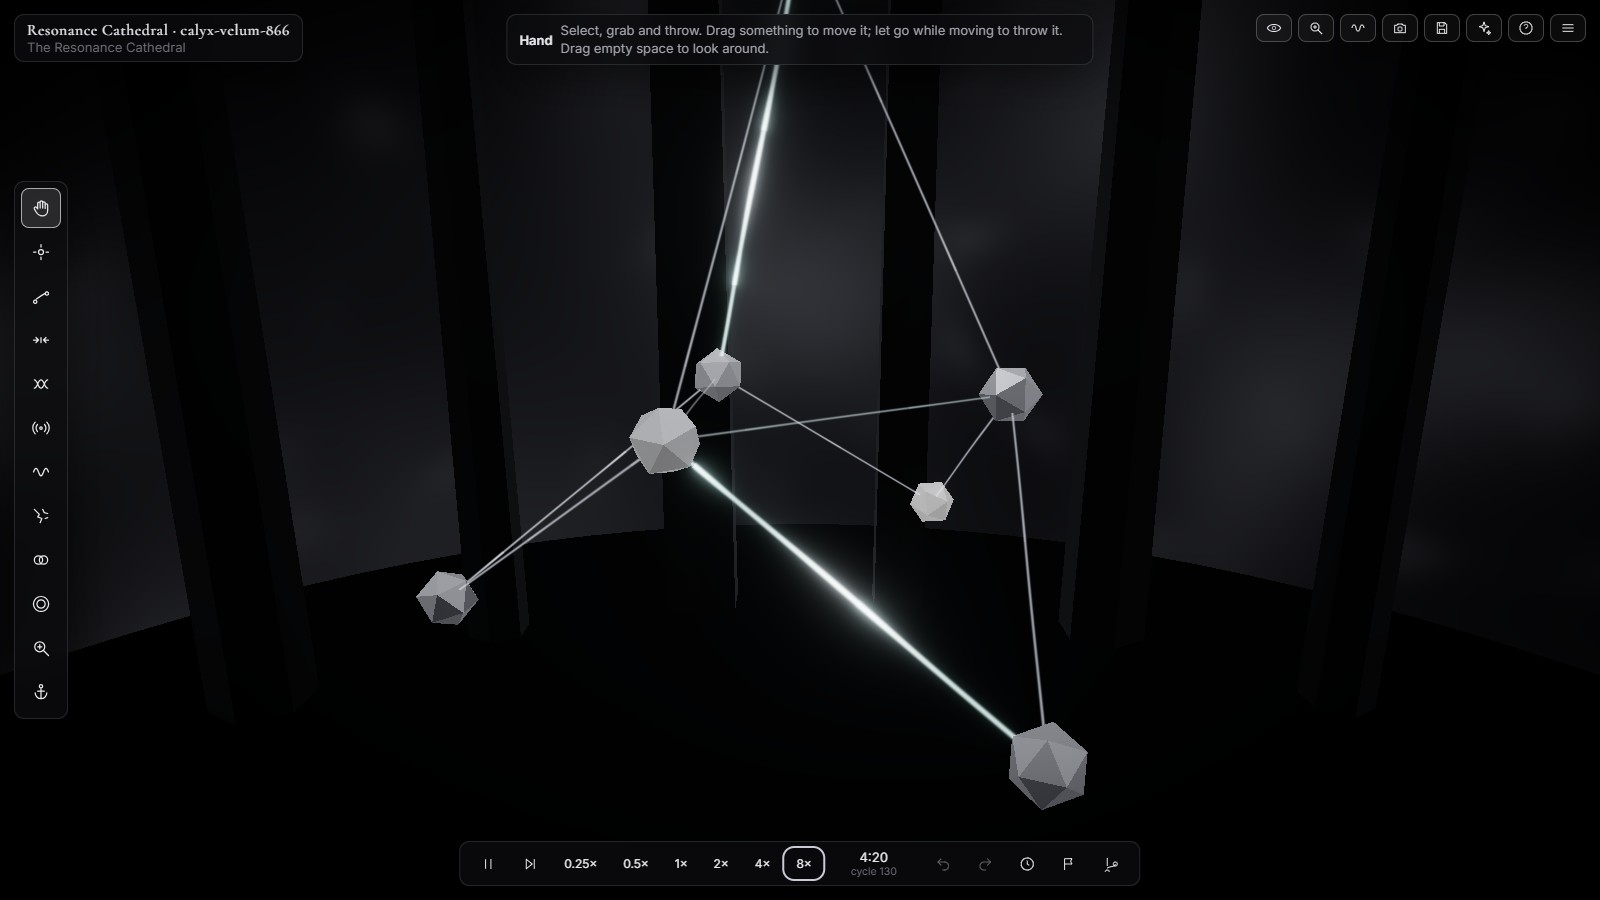
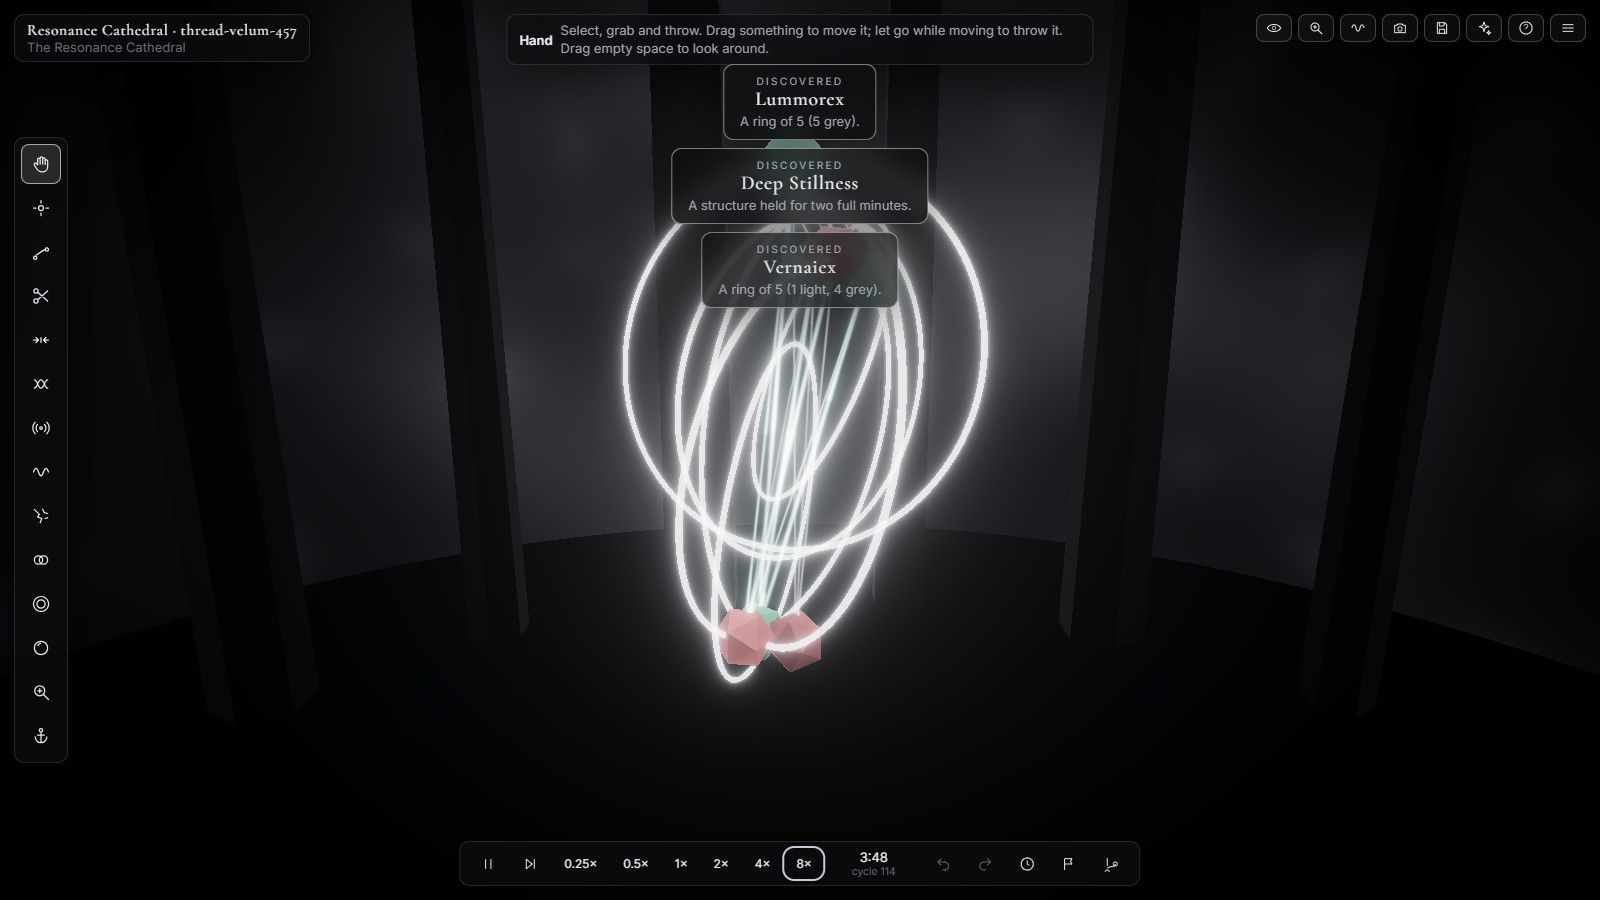
Showcase for Polaritium 1.4.0: note colours, the Music panel, your own sounds, Sound Puzzles

diff --git a/README.md b/README.md
@@ -8,6 +8,8 @@ Polaritium is a 3D game for Windows. Its universe is made of one strange, made-u
 
 You reach in and touch them. Connect a light to a dark and energy flows along the strand. Tune two things to nearby rhythms and they fall into step. Push a strand too hard and it snaps. Nothing is scripted: rings, membranes, crystals and small living forms appear only when the conditions allow them, and then they keep going on their own.
 
+And it is an instrument. Every ball sings a note and wears that note's colour, so the universe plays its own slow music as it moves, and you shape that music by shaping the universe.
+
 The whole game asks one question: *what happens if I try this?*
 
 ## Start here: the tutorial
@@ -30,7 +32,19 @@ A new player is offered a five-minute tutorial before anything else. It teaches 
 
 ![Strand Sight: the same loop with everything quieted except the strands, the strongest one glowing](screenshots/03-strand-sight.jpg)
 
-## The twelve tools
+## The universe plays music
+
+Every ball sings. Its rhythm picks a note from one five-note scale, on one steady beat, over a slow chord, so nothing you do can sound wrong. Colour is the note: light balls glow in a pale tint of it, dark balls hold a deep shade of it, grey sits between. Notes that sound best together wear nearly opposite colours, and with the harmony pull on they drift toward each other, while clashing notes drift apart.
+
+The Music panel shows the notes playing as a ring of colours, and holds the controls: tempo, four moods (Calm, Bright, Dreamy, Dark), scenes you can flip between like parts of a song, a starter kit of four balls that already sound good together, and Bubbles: see-through spheres you draw over a group of balls to quiet them all, or to hear only them. Any ball can be muted, soloed or removed from its own card, and its + and - buttons move it one note at a time.
+
+![The Music panel beside a starter kit: coloured balls joined by strands, the tempo dial, the four moods, the harmony pull and a saved scene](screenshots/13-living-score.png)
+
+**Your own sounds.** Drop in your own loops and sounds. The game works out each one's tempo, key or note; loops are stretched to the beat and moved into key, a line that plays one note at a time is tuned note by note, and single sounds are retuned to each ball's note. You choose which kind of ball plays which sound. Everything stays on your computer.
+
+![My sounds: a loop recognised as 100 beats a minute, 8 beats long, in D minor, and a pluck recognised as the note E, with a choice of sound for dark, light and grey balls](screenshots/14-my-sounds.png)
+
+## The fourteen tools
 
 Every tool sits on the rail at the left and has its own key. Each one also works without dragging, from the keyboard.
 
@@ -39,13 +53,15 @@ Every tool sits on the rail at the left and has its own key. Each one also works
 | 1 | Hand | Select, grab and throw. |
 | 2 | Seed | Place new light, dark, grey, a crystal seed or a living form. |
 | 3 | Strand | Connect two things so energy can flow between them. |
+| X | Scissors | Cut a strand. |
 | 4 | Pull | Draw things toward a point (or push them away), or shorten and lengthen a strand. |
 | 5 | Twist | Twist a strand. A twisted strand carrying flow turns its ends around each other. |
 | 6 | Pulse | Send a wave through the medium. Hold longer for a stronger one. |
-| 7 | Tune | Change something's rhythm, which you can hear, or how tightly a strand couples. |
-| 8 | Fracture | Cut a strand, or shake something until it may break. |
+| 7 | Tune | Change something's rhythm, and so the note it sings, or how tightly a strand couples. |
+| 8 | Fracture | Shake something until it may break. |
 | 9 | Fuse | Merge two things into one. |
 | 0 | Veil | Place a shield that keeps its inside apart from the outside. |
+| B | Bubble | Draw a see-through bubble that quiets what is inside it, or plays only that. It changes only the sound. |
 | L | Lens | Show the invisible: pooled light, passing vibration, the pull on each thing. |
 | K | Anchor | Hold something in place, or hold its rhythm or its energy. |
 
@@ -66,11 +82,13 @@ Each place can start empty or with one of seven starting systems, from a single 
 
 ![The Fracture Garden: angular crystals drifting among lights and a dark](screenshots/06-fracture-garden.jpg)
 
-## Twelve Paradox Chambers
+## Six Sound Puzzles
 
-Twelve puzzles, each a question with more than one answer: make the light circle the dark, keep a crystal whole while the drummer beats, bring six mediators into one rhythm, carry a ring across the Threshold. A chamber checks its goal from the simulation itself, so any way that truly works counts. The first unsolved one is marked *Start here*, each chamber lists the tools it uses, and its Hint button offers a nudge when nothing has moved for a while.
+Each puzzle starts with something that sounds wrong, and is solved by making it sound right: one note out of tune, a chord with no bass, too many voices at once, three notes that have to become a chord, two notes that have to agree before they can come together, and a clashing note tied where it does not belong. Each one is checked from the notes the balls actually sing, so any way that truly works counts, and each one has been solved by a test that plays it through the screen. The first unsolved one is marked *Start here*, and its Hint button offers a nudge when nothing has moved for a while.
 
-![The Paradox Chambers: twelve cards, each with its question and the place it is set, the first marked Start here](screenshots/07-paradox-chambers.png)
+![The Sound Puzzles: six cards, each with its goal, the first marked Start here](screenshots/07-paradox-chambers.png)
+
+![Too Many Voices, solved: a bubble drawn over the clashing group quiets it, and the ring shows the notes still singing](screenshots/15-sound-puzzle.png)
 
 ## Optional AI, with a hard limit
 
@@ -87,14 +105,14 @@ Every AI path is tested against a pretend Claude. No paid request has been made 
 
 ## System needs
 
-- Windows 10 or 11, 64-bit. The installer is 115 MB.
+- Windows 10 or 11, 64-bit. The installer is 150 MB.
 - Works offline, with no account. AI is the only part that uses the internet, and only when you ask.
 - Tested on a laptop with Intel UHD integrated graphics (Core i3, 16 GB), where every graphics level, Low to Ultra, held its frame limit. Older or weaker graphics may need Low.
 - **The installer is not code-signed.** Windows SmartScreen warns the first time it runs ("Windows protected your PC"); choose **More info**, then **Run anyway**.
 
 ## Where it stands
 
-Version 1.2.1, 26 October 2026: the tutorial waits for you and circles the button each step is about, the first puzzle explains how it is really solved, and six calm, hypnotic music tracks play in order everywhere, with softer sound effects and a Music volume slider. It installs, runs, saves and uninstalls cleanly, and passes 140 unit and integration tests, interface tests in a headless browser (including the whole tutorial played through by mouse and keyboard), 6 desktop-app tests and a 26-step installer check. Not yet checked: a real Claude request, and a first listen to the sound, which has calm music plus effects synthesized live from the simulation, so every concentration has a voice at its own rhythm.
+Version 1.4.0, 26 October 2026: the universe became an instrument. Balls wear the colour of the note they sing; the harmony pull draws agreeing notes together; your own loops and sounds can be added, fitted to the beat and the key and played by the balls; Mute, Solo, Remove, the Bubble and the Scissors shape the mix; tempo, mood, scenes and a starter kit sit in the Music panel; and the puzzles are six new Sound Puzzles. It installs, upgrades from 1.3.0, runs, saves and uninstalls cleanly, and passes 152 unit and integration tests, 57 interface tests in a headless browser (every puzzle solved through the screen, the tutorial played through, your own sounds added and heard in time), 6 desktop-app tests and the installer checks. Not yet checked: a real Claude request, and a first listen by a person.
 
 The source code is private. This page shows what the game is and what works.
 
